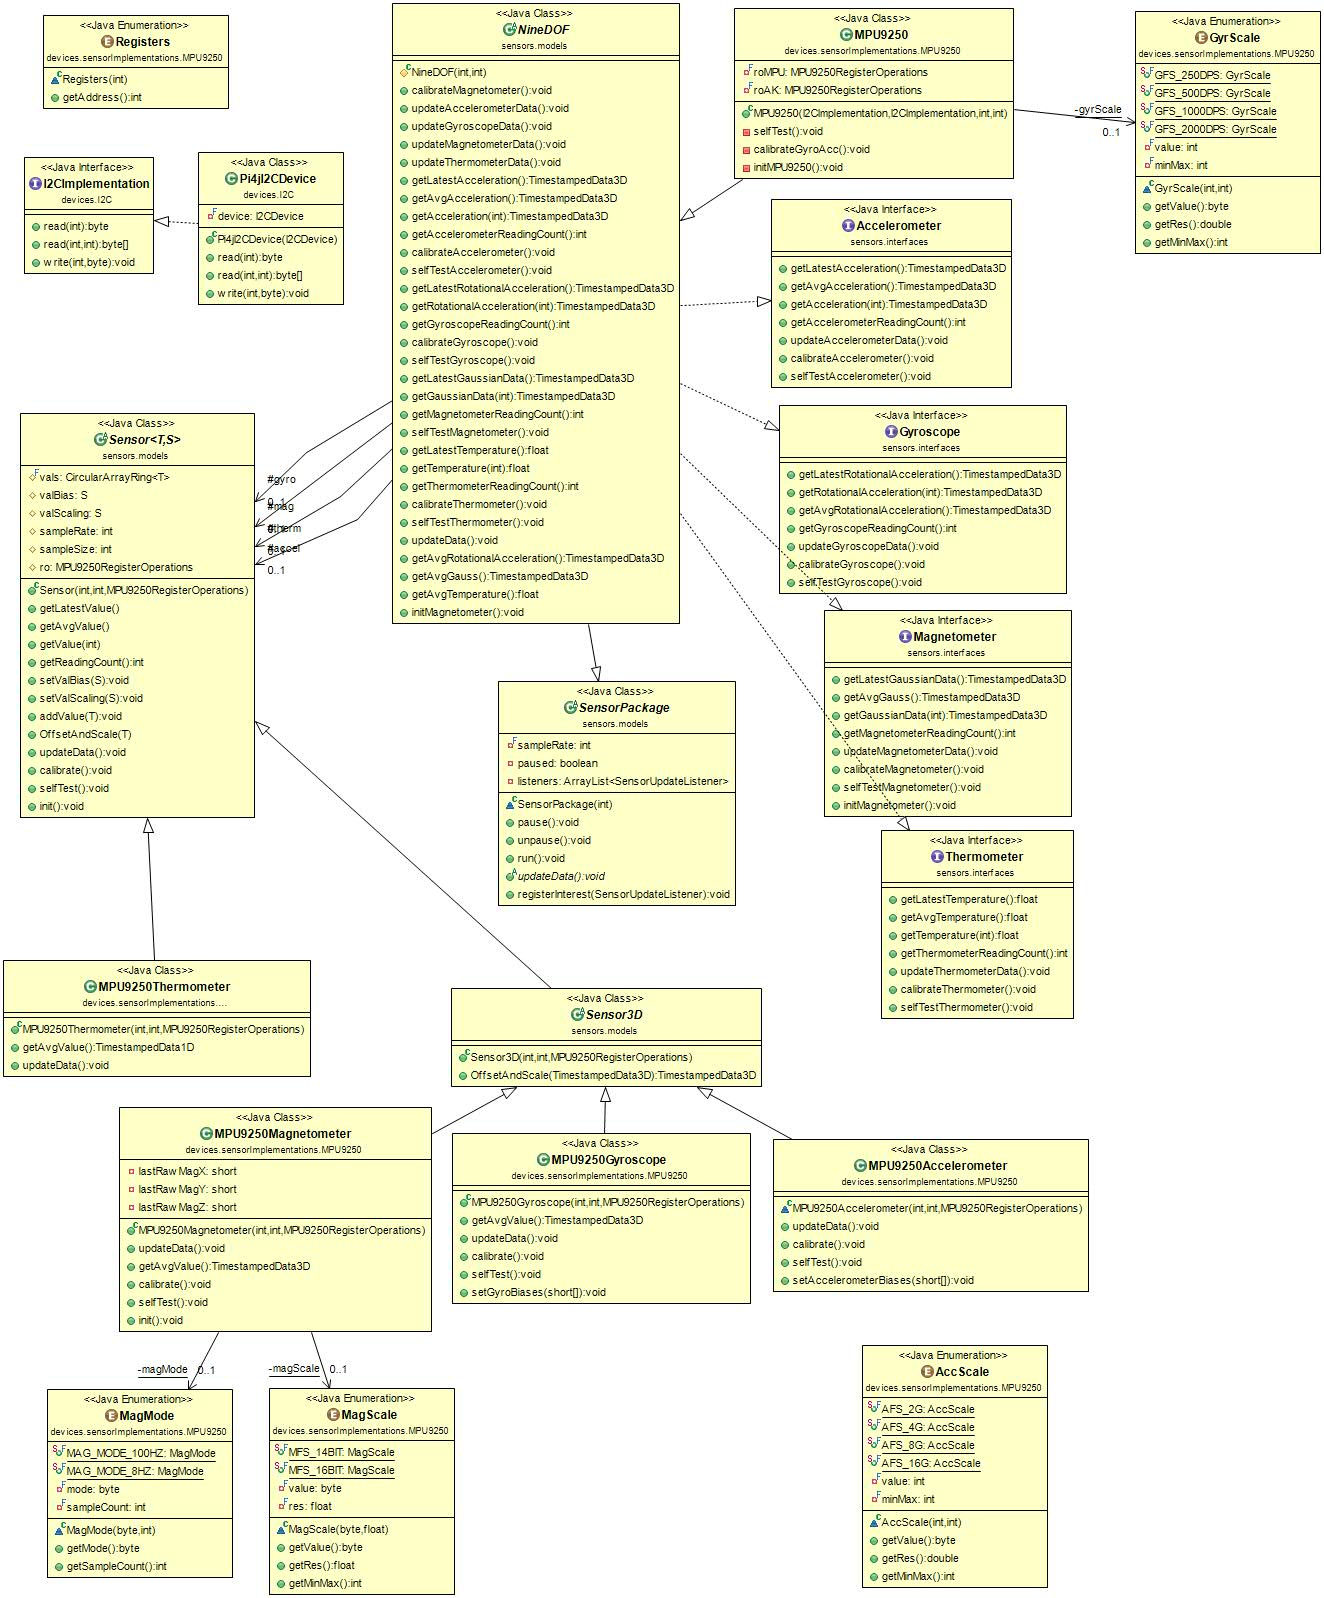
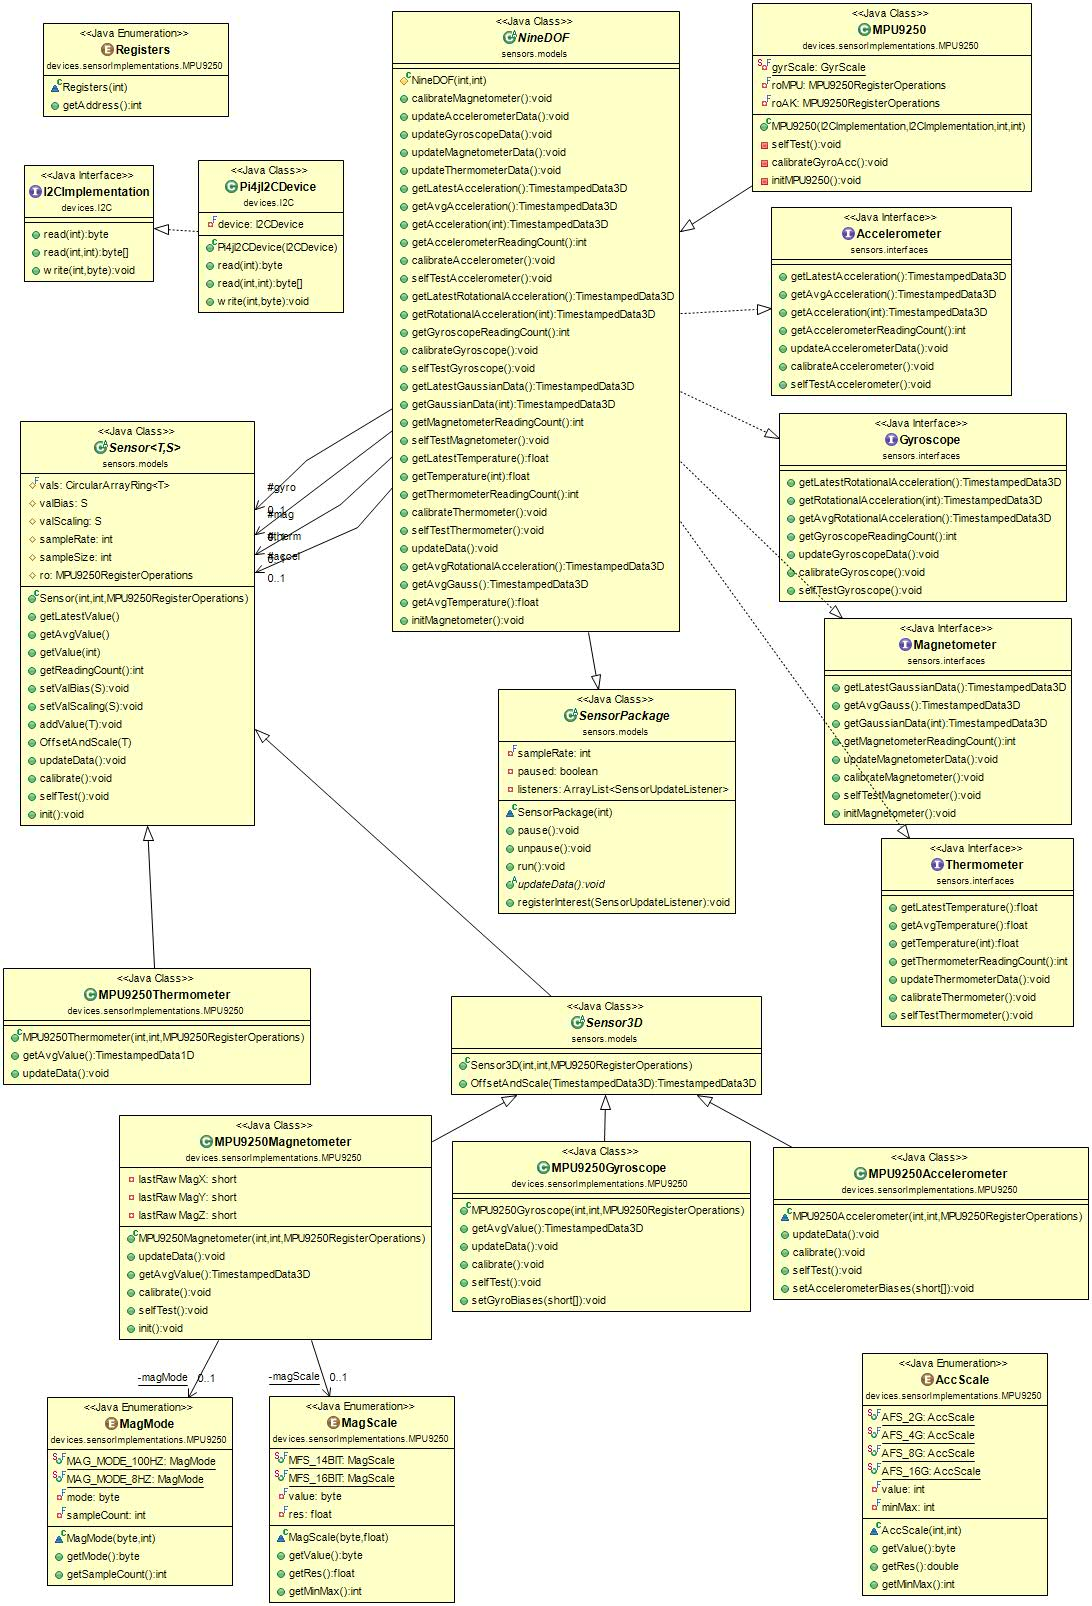
use of xxxScale enums reviewed Avg implement in sensor3D
Accelerometer scale error (4G) corrected to 2G

diff --git a/RPISensors/src/main/java/sensors/Implementations/MPU9250/MPU9250.java b/RPISensors/src/main/java/sensors/Implementations/MPU9250/MPU9250.java
@@ -18,9 +18,6 @@ import java.util.Arrays;
  */
 public class MPU9250 extends NineDOF
 {
-    private static final GyrScale gyrScale = GyrScale.GFS_2000DPS;
-
-
     private final MPU9250RegisterOperations roMPU;
     private final MPU9250RegisterOperations roAK;
 
@@ -205,8 +202,8 @@ public class MPU9250 extends NineDOF
         // Configure MPU6050 gyro and accelerometer for bias calculation
         roMPU.writeByteRegister(Registers.CONFIG,(byte) 0x01);       // Set low-pass filter to 188 Hz
         roMPU.writeByteRegister(Registers.SMPLRT_DIV,(byte) 0x00);   // Set sample rate to 1 kHz
-        roMPU.writeByteRegister(Registers.GYRO_CONFIG,(byte) 0x00);  // Set gyro full-scale to 250 degrees per second, maximum sensitivity
-        roMPU.writeByteRegister(Registers.ACCEL_CONFIG,(byte) 0x00); // Set accelerometer full-scale to 2 g, maximum sensitivity
+        roMPU.writeByteRegister(Registers.GYRO_CONFIG,(byte) GyrScale.GFS_250DPS.getValue());  	// Set gyro full-scale to 250 degrees per second, maximum sensitivity
+        roMPU.writeByteRegister(Registers.ACCEL_CONFIG,(byte) AccScale.AFS_2G.getValue()); 		// Set accelerometer full-scale to 2 g, maximum sensitivity
 
 
         // Configure FIFO to capture accelerometer and gyro data for bias calculation
@@ -293,7 +290,7 @@ public class MPU9250 extends NineDOF
         c = (byte)(c & ~0xE0); // Clear self-test bits [7:5]  ####
         c = (byte)(c & ~0x02); // Clear Fchoice bits [1:0]
         c = (byte)(c & ~0x18); // Clear AFS bits [4:3]
-        c = (byte)(c | gyrScale.getValue() ); // Set full scale range for the gyro GFS_2000DP = 0x18 = 24 #### does not require shifting!!!!
+        c = (byte)(c | GyrScale.GFS_2000DPS.getValue() ); // Set full scale range for the gyro GFS_2000DP = 0x18 = 24 #### does not require shifting!!!!
         c = (byte)(c | 0x00); // Set Fchoice for the gyro to 11 by writing its inverse to bits 1:0 of GYRO_CONFIG
         roMPU.writeByteRegister(Registers.GYRO_CONFIG, c ); // Write new GYRO_CONFIG value to register
 
@@ -301,7 +298,7 @@ public class MPU9250 extends NineDOF
         c = roMPU.readByteRegister(Registers.ACCEL_CONFIG); // get current ACCEL_CONFIG register value
         c = (byte)(c & ~0xE0); // Clear self-test bits [7:5] ####
         c = (byte)(c & ~0x18);  // Clear AFS bits [4:3]
-        c = (byte)(c | AccScale.AFS_4G.getValue() ); // Set full scale range for the accelerometer #### does not require shifting!!!!
+        c = (byte)(c | AccScale.AFS_2G.getValue() ); // Set full scale range for the accelerometer #### does not require shifting!!!!
         roMPU.writeByteRegister(Registers.ACCEL_CONFIG, c); // Write new ACCEL_CONFIG register value
 
         // Set accelerometer sample rate configuration

diff --git a/RPISensors/src/main/java/sensors/models/Sensor3D.java b/RPISensors/src/main/java/sensors/models/Sensor3D.java
@@ -12,15 +12,33 @@ public abstract class Sensor3D extends Sensor<TimestampedData3D,Data3D>
 {	
 	public Sensor3D(int sampleRate, int sampleSize, MPU9250RegisterOperations ro) {
 		super(sampleRate, sampleSize, ro);
+	    valBias = new Data3D(0,0,0);
+	    valScaling= new Data3D(1,1,1);
+
 	}
 
 	@Override
 	public TimestampedData3D OffsetAndScale(TimestampedData3D value)
     {
     		TimestampedData3D oSVal = value.clone();
-            oSVal.setX(value.getX()*valScaling.getX() -valBias.getX()); 
+            oSVal.setX(value.getX()*valScaling.getX() -valBias.getX()); //bias will be at current scale?
             oSVal.setY(value.getY()*valScaling.getY() -valBias.getY()); 
             oSVal.setZ(value.getZ()*valScaling.getZ() -valBias.getZ()); 
             return oSVal;
+    }
+
+	@Override
+	public  TimestampedData3D getAvgValue()
+    {	
+		TimestampedData3D sum = new TimestampedData3D(0,0,0);
+		int count = getReadingCount();
+    	for(int i = 0; i>count; i++)
+    	{
+    		sum.setX(getValue(i).getX() + sum.getX());
+    		sum.setY(getValue(i).getY() + sum.getY());
+    		sum.setZ(getValue(i).getZ() + sum.getZ());
+    	}
+		TimestampedData3D avg = new TimestampedData3D(sum.getX()/count,sum.getY()/count,sum.getZ()/count);
+        return avg;
     }
 }

diff --git a/RPISensors/src/main/java/sensors/models/Sensor.java b/RPISensors/src/main/java/sensors/models/Sensor.java
@@ -21,8 +21,6 @@ public abstract class Sensor <T,S>
     public Sensor(int sampleRate, int sampleSize, MPU9250RegisterOperations ro)
     {
         vals = new CircularArrayRing<T>();
-        valBias = null;
-        valScaling = null;
         this.sampleRate = sampleRate;
         this.sampleSize = sampleSize;
         this.ro = ro;
@@ -35,6 +33,7 @@ public abstract class Sensor <T,S>
     public T getAvgValue()
     {	
     	//implement and override in subclass
+    	System.out.println("ERROR: OffsetAndScale not overridden");
         return vals.get(0);
     }
 
@@ -67,8 +66,6 @@ public abstract class Sensor <T,S>
     {
     	T oSVal = null;
     	//implement and override in subclass
-        //value.offset(valBias);
-        //value.scale(valScaling);
     	System.out.println("ERROR: OffsetAndScale not overridden");
         return oSVal;
     }

diff --git a/RPISensors/src/main/java/inertialNavigation/Navigate.java b/RPISensors/src/main/java/inertialNavigation/Navigate.java
@@ -4,15 +4,17 @@ import java.io.IOException;
 
 import com.pi4j.io.i2c.I2CFactory;
 import com.pi4j.io.i2c.I2CFactory.UnsupportedBusNumberException;
+
+import dataTypes.TimestampedData3D;
+
 import com.pi4j.io.i2c.I2CBus;
 
-import devices.sensorImplementations.MPU9250.MPU9250;
 import devices.I2C.Pi4jI2CDevice;
-import devices.sensors.interfaces.Accelerometer;
-import devices.sensors.interfaces.Gyroscope;
-import devices.sensors.interfaces.Magnetometer;
-import devices.sensors.interfaces.SensorUpdateListener;
-import devices.sensors.dataTypes.*;
+import sensors.Implementations.MPU9250.MPU9250;
+import sensors.interfaces.Accelerometer;
+import sensors.interfaces.Gyroscope;
+import sensors.interfaces.Magnetometer;
+import sensors.interfaces.SensorUpdateListener;
 
 
 public class Navigate implements Runnable, SensorUpdateListener{

diff --git a/RPISensors/src/main/java/sensors/Implementations/MPU9250/MPU9250Gyroscope.java b/RPISensors/src/main/java/sensors/Implementations/MPU9250/MPU9250Gyroscope.java
@@ -8,13 +8,14 @@ import dataTypes.TimestampedData3D;
 import sensors.models.Sensor3D;
 
 public class MPU9250Gyroscope extends Sensor3D {
-
+	private GyrScale gyroScale; 
 	public MPU9250Gyroscope(int sampleRate, int sampleSize, MPU9250RegisterOperations ro) 
 	{
 		super(sampleRate, sampleSize, ro);
-		this.setValScaling( new Data3D(	(float)GyrScale.GFS_2000DPS.getRes(),
-										(float)GyrScale.GFS_2000DPS.getRes(),
-										(float)GyrScale.GFS_2000DPS.getRes()));
+		gyroScale = GyrScale.GFS_2000DPS;
+		this.setValScaling( new Data3D(	(float)gyroScale.getRes(),
+										(float)gyroScale.getRes(),
+										(float)gyroScale.getRes()));
 	}
 
 	@Override

diff --git a/RPISensors/src/main/java/sensors/Implementations/MPU9250/MPU9250Thermometer.java b/RPISensors/src/main/java/sensors/Implementations/MPU9250/MPU9250Thermometer.java
@@ -16,11 +16,17 @@ public class MPU9250Thermometer extends Sensor<TimestampedData1D,Data1D>
 	}
 	
 	@Override
-	public TimestampedData1D getAvgValue()
-	{
-		//TODO
-		return null;
-	}
+	public  TimestampedData1D getAvgValue()
+    {	
+		TimestampedData1D sum = new TimestampedData1D(0);
+		int count = getReadingCount();
+    	for(int i = 0; i>count; i++)
+    	{
+    		sum.setX(getValue(i).getX() + sum.getX());
+    	}
+		TimestampedData1D avg = new TimestampedData1D(sum.getX()/count);
+        return avg;
+    }
 
 	@Override
 	public void updateData() throws IOException 

diff --git a/RPISensors/src/main/java/sensors/Implementations/MPU9250/MPU9250Constants.java b/RPISensors/src/main/java/sensors/Implementations/MPU9250/MPU9250Constants.java
@@ -221,9 +221,9 @@ enum AccScale
     {
         return (byte)value;
     }
-    public double getRes()
+    public float getRes()
     {
-        return (double)minMax/32768.0;
+        return minMax/32768.0f;
     }
     public int getMinMax()
     {
@@ -250,9 +250,9 @@ enum GyrScale
     {
         return (byte)value;
     }
-    public double getRes()
+    public float getRes()
     {
-        return (double)minMax/32768.0;
+        return minMax/32768.0f;
     }
     public int getMinMax()
     {

diff --git a/RPISensors/src/main/java/inertialNavigation/SensorFusion.java b/RPISensors/src/main/java/inertialNavigation/SensorFusion.java
@@ -1,7 +1,7 @@
 package inertialNavigation;
 
-import devices.sensors.dataTypes.Data3D;
-import devices.sensors.dataTypes.TimestampedData3D;
+import dataTypes.Data3D;
+import dataTypes.TimestampedData3D;
 
 /**
  * SensorFusion

diff --git a/RPISensors/src/main/java/inertialNavigation/Instruments.java b/RPISensors/src/main/java/inertialNavigation/Instruments.java
@@ -1,6 +1,6 @@
 package inertialNavigation;
 
-import devices.sensors.dataTypes.TimestampedData3D;
+import dataTypes.TimestampedData3D;
 
 /**
  * @author GJWood
